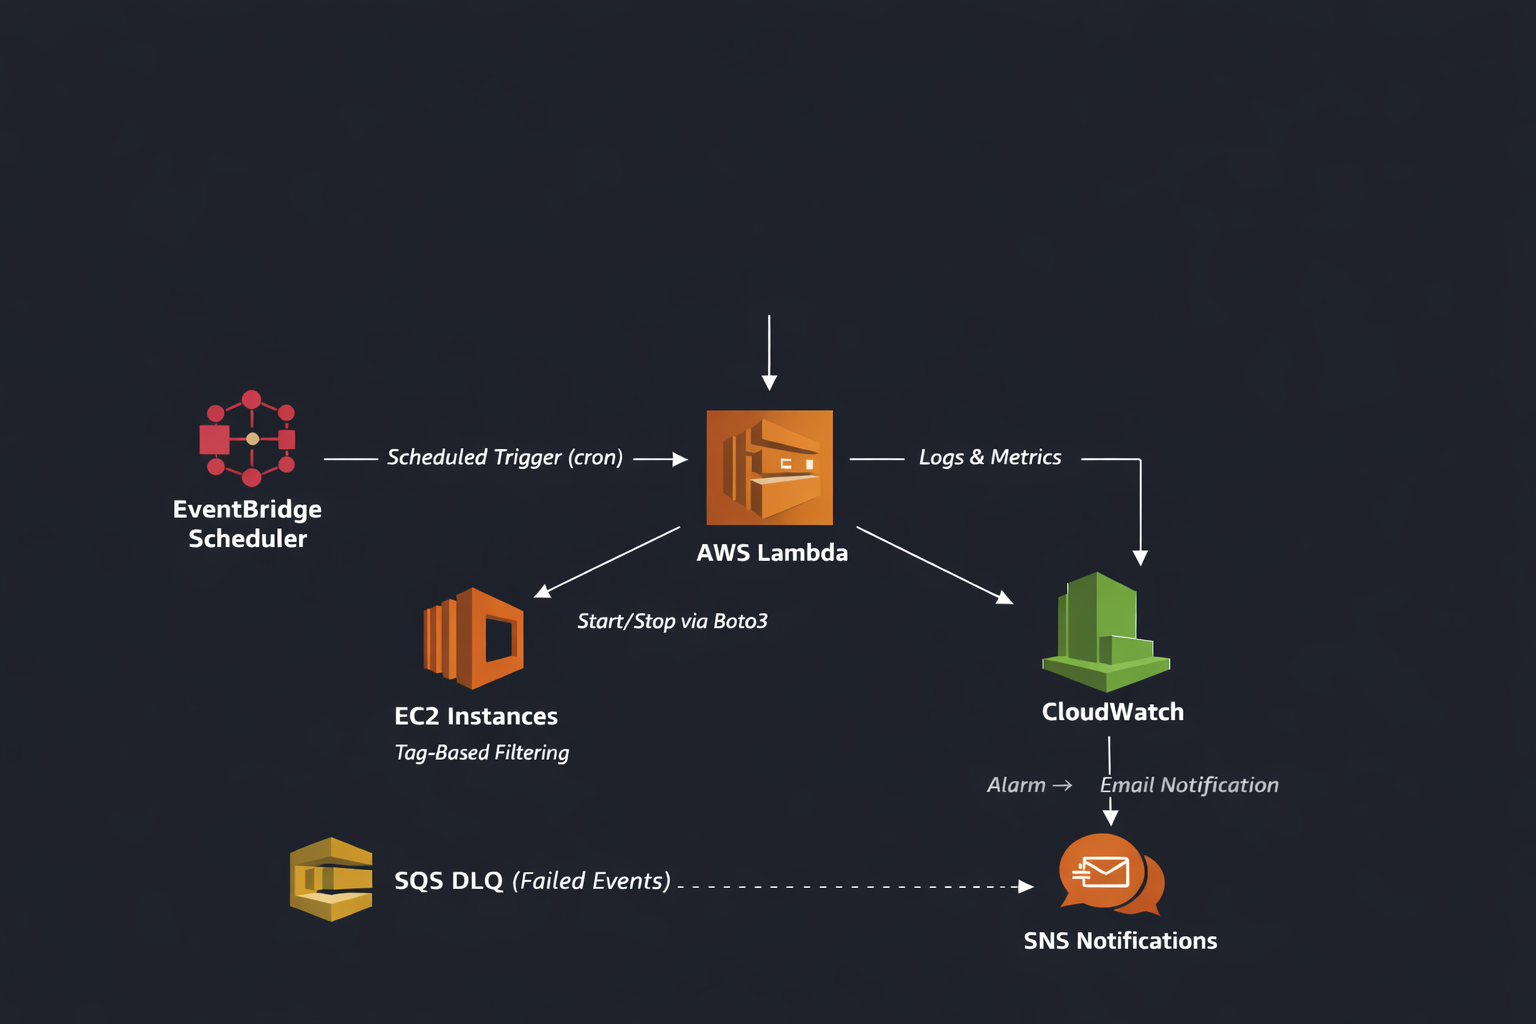
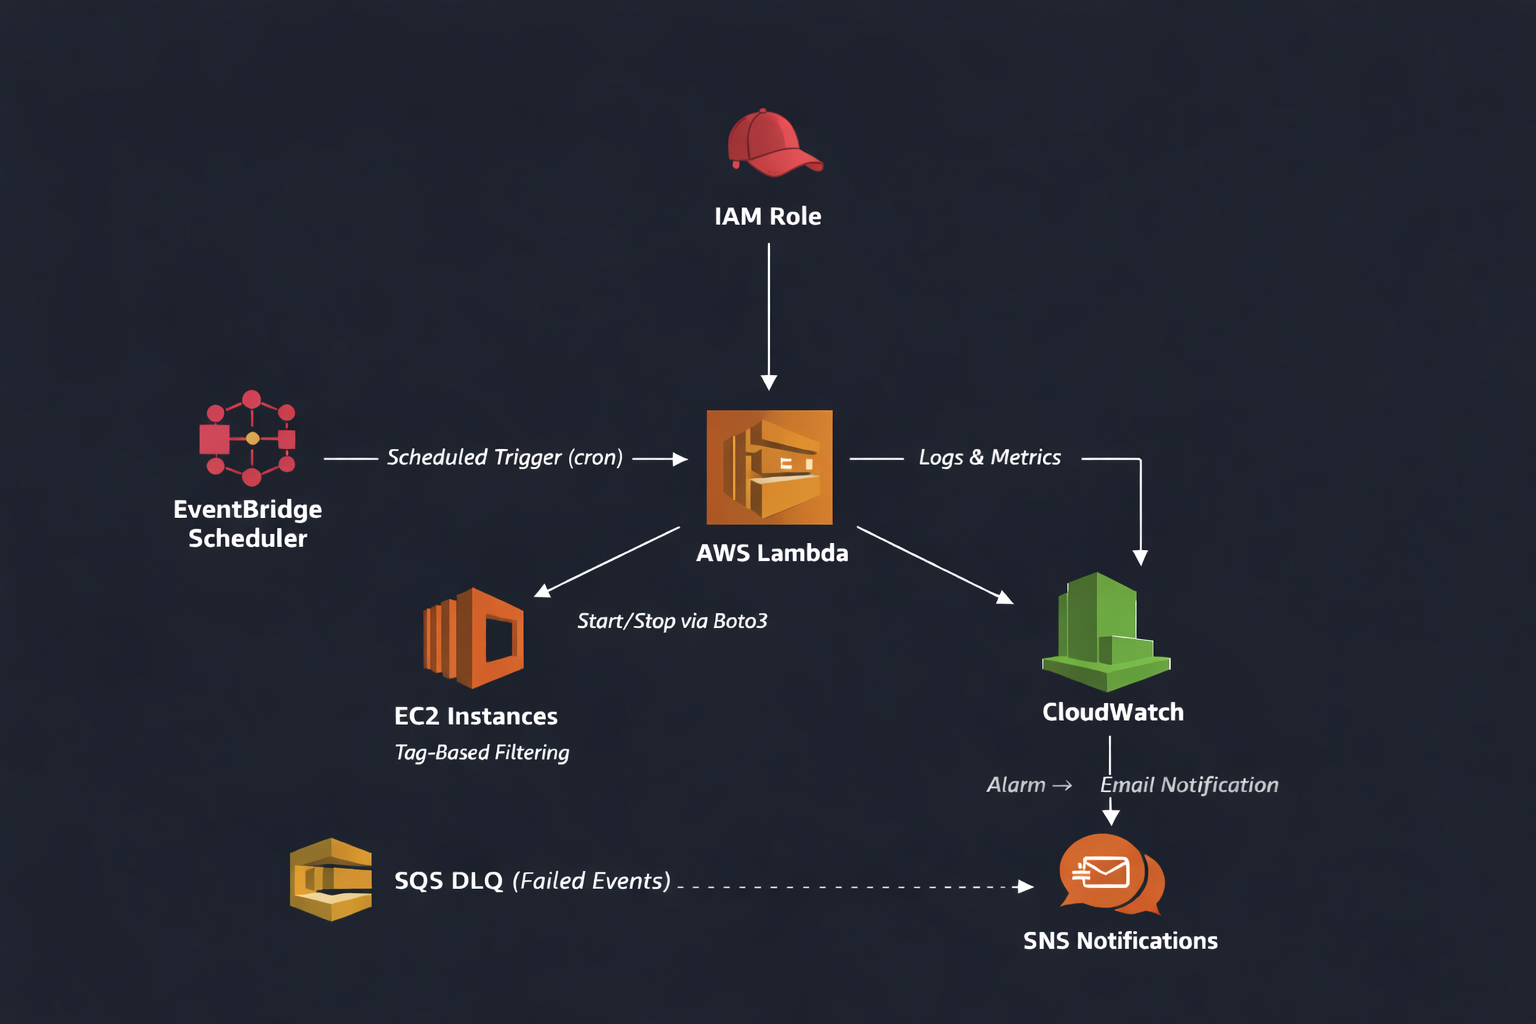
slightly improved the python pgm and also added the missing iam role to the architecture diag

diff --git a/ec2_scheduler.py b/ec2_scheduler.py
@@ -18,9 +18,9 @@ def lambda_handler(event, context):
     )    
     instance_ids = []
 
-    for reservation in response['Reservations']:
-        for instance in reservation['Instances']:
-            instance_ids.append(instance['InstanceId'])
+    for reservation in response.get('Reservations',[]):
+        for instance in reservation.get('Instances',[]):
+            instance_ids.append(instance.get('InstanceId'))
 
     print(f"Scheduled Instances: {instance_ids}")
 
